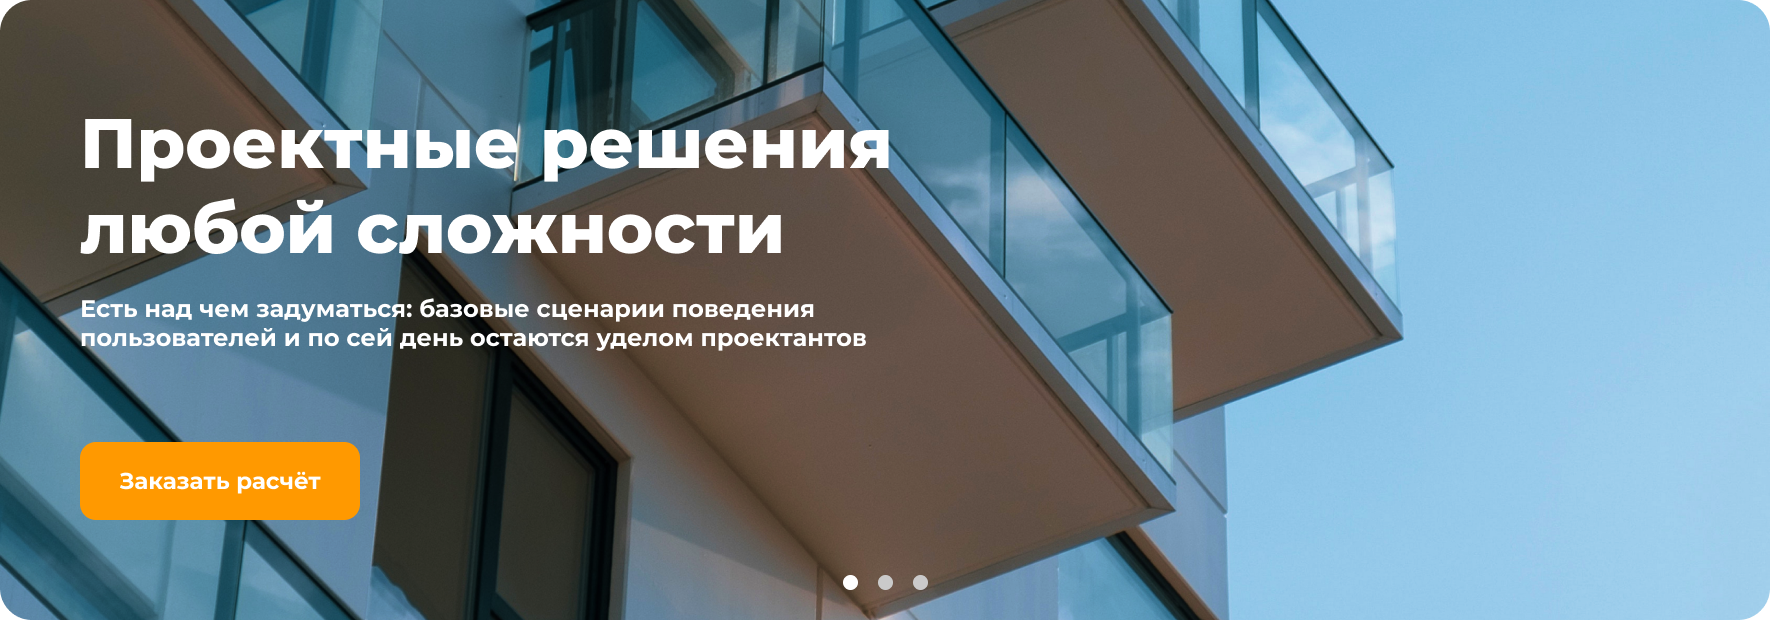
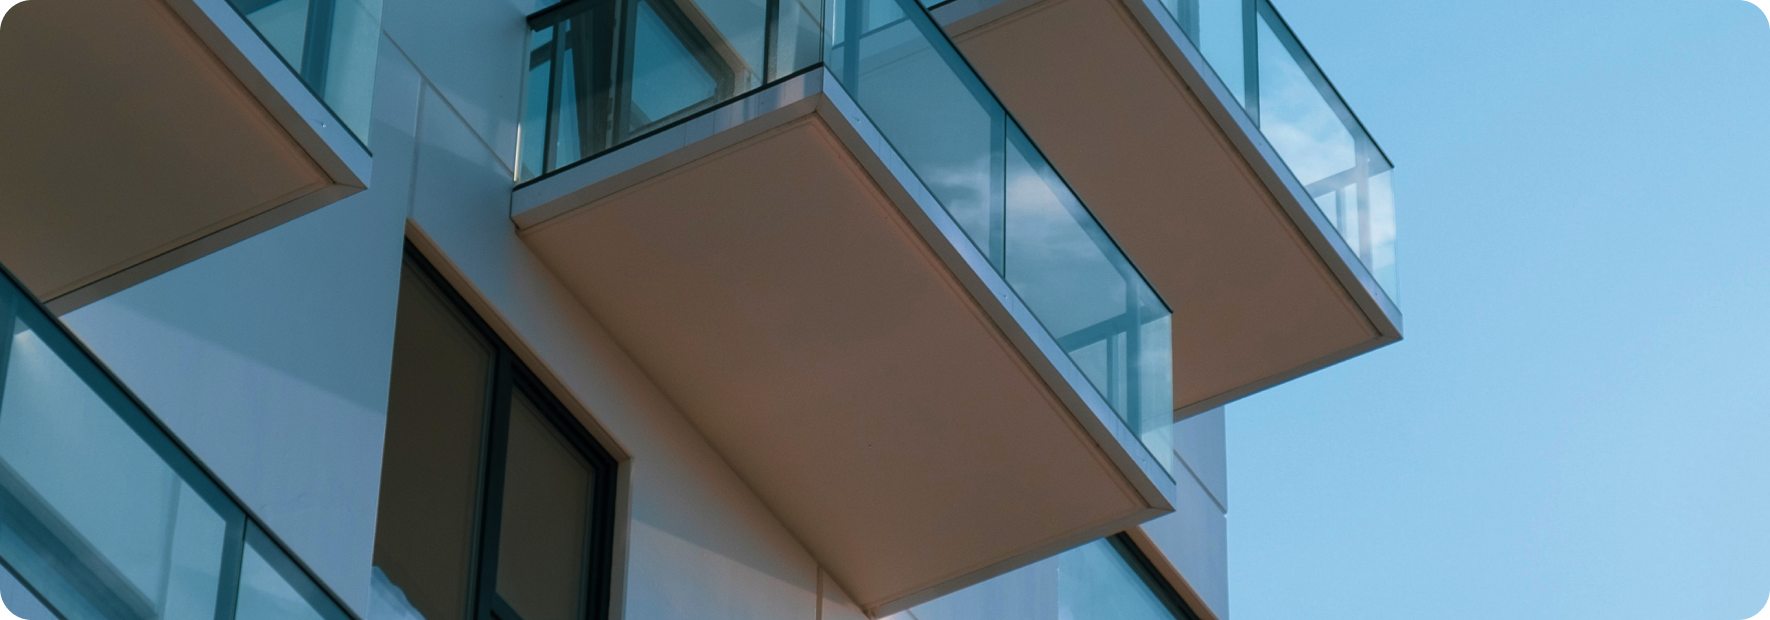
added slider

diff --git a/src/components/Header.jsx b/src/components/Header.jsx
@@ -5,11 +5,11 @@ import Search from './Search';
 
 const Header = () => {
 	const [toggle, setToggle] = useState(false);
-	const [search, setSearch] = useState(false);
+	const [searchActive, setSearchActive] = useState(true);
 
 	return (
-		<header className='w-full min-h-screen text-gray-900'>
-			<nav className='flex justify-between items-center py-8 px-6 mx-auto max-w-screen-xl md:px-12 lg:px-16 xl:px-24'>
+		<header className='w-full text-gray-900'>
+			<nav className='flex justify-between items-center py-2 px-6 mx-auto max-w-screen-xl md:px-12 lg:px-16 xl:px-24 border-b rounded-3xl shadow-md'>
 				<button
 					className='block md:hidden relative z-30 focus:outline-none transform  -translate-x-1/2 -translate-y-1/2 active:scale-75 transition-transform'
 					onClick={() => setToggle((prev) => !prev)}>
@@ -45,7 +45,7 @@ const Header = () => {
 				<div
 					className={`${
 						toggle ? 'fixed' : 'hidden'
-					}  flex inset-0 transition-all bg-white/70 backdrop-blur-xl z-20 md:static md:bg-transparent md:flex items-center justify-center space-y-8 md:space-y-0 flex-col md:flex-row md:space-x-8 -mt-56 md:mt-0'`}>
+					}  flex inset-0 transition-all bg-white/70 backdrop-blur-xl z-20 md:static md:bg-transparent md:flex items-center justify-center space-y-8 md:space-y-0 flex-col md:flex-row md:space-x-8 -mt-5 md:mt-0'`}>
 					<ul className='flex flex-col md:flex-row items-center space-y-6 md:space-y-0 md:space-x-6 lg:md:-x-8'>
 						{navLinks.map((link, id) => (
 							<li
@@ -59,7 +59,7 @@ const Header = () => {
 				</div>
 				<button
 					className='flex justify-center items-center h-12 px-5 font-medium text-gray-100 bg-yellow-500 whitespace-nowrap hover:bg-yellow-600 hover:text-white rounded-xl shadow-lg hover:shadow-xl transform hover:scale-105 transition duration-500 focus:outline-none'
->
+					onClick={() => setSearchActive((prev) => !prev)}>
 					<svg
 						xmlns='http://www.w3.org/2000/svg'
 						className='h-5 w-5'
@@ -73,7 +73,7 @@ const Header = () => {
 					</svg>
 				</button>
 			</nav>
-			<Search />
+			<Search active={searchActive} setActive={setSearchActive} />
 		</header>
 	);
 };

diff --git a/src/components/Slider.jsx b/src/components/Slider.jsx
@@ -1,0 +1,42 @@
+import React, { useState } from 'react';
+import { sliderData } from '../assets/index';
+import styles from '../styles';
+
+const Slider = () => {
+	const [slideIndex, setSlideIndex] = useState(1);
+
+	const moveDot = (index) => {
+		setSlideIndex(index);
+	};
+
+	return (
+		<div className={`${styles.sectionWidth} relative w-full overflow-hidden`}>
+			{sliderData.map((data, index) => {
+				return (
+					<div
+						key={data.id}
+						className={
+							slideIndex === index + 1
+								? 'opacity-1'
+								: 'w-full h-full absolute opacity-0 transition-opacity ease-in-out'
+						}>
+						<img src={data.image} alt={data.title} />
+					</div>
+				);
+			})}
+			<div className='flex  translate-x-7 '>
+				{Array.from({ length: 3 }).map((item, index) => (
+					<div
+						onClick={() => moveDot(index + 1)}
+						className={
+							slideIndex === index + 1
+								? 'w-10 h-10 rounded-full  bg-indigo-500 cursor-pointer '
+								: 'w-5 h-5 rounded-full  bg-black cursor-pointer'
+						}></div>
+				))}
+			</div>
+		</div>
+	);
+};
+
+export default Slider;

diff --git a/src/components/Search.jsx b/src/components/Search.jsx
@@ -1,8 +1,9 @@
 import React from 'react';
 
-const Search = () => {
+const Search = ({ active, setActive }) => {
 	return (
-		<div className='relative text-[16px] '>
+		<div
+			className={`${active ? 'hidden' : 'relative text-[16px] '}`}>
 			<form action='' className=''>
 				<div className=' flex items-center space-x-4 px-6 mx-auto max-w-screen-xl md:px-12 lg:px-16 xl:px-24 transform duration-500 transition-all'>
 					<div className='flex bg-gray-200 p-2 w-full space-x-2 rounded-lg items-center'>

diff --git a/src/assets/index.js b/src/assets/index.js
@@ -10,4 +10,22 @@ import how4 from './how4.png';
 import menu from './menu.svg';
 import close from './close.svg';
 
-export { logo, about, hero, hero2, hero3, how, how2, how3, how4, close, menu };
+export { logo, about, how, how2, how3, how4, close, menu };
+
+export const sliderData = [
+	{
+		id: 1,
+		title: 'hero',
+		image: hero,
+	},
+	{
+		id: 2,
+		title: 'hero2',
+		image: hero2,
+	},
+	{
+		id: 3,
+		title: 'hero3',
+		image: hero3,
+	},
+];

diff --git a/src/components/Hero.jsx b/src/components/Hero.jsx
@@ -1,9 +1,14 @@
-import React from 'react'
+import React from 'react';
+import Slider from './Slider';
 
 const Hero = () => {
-  return (
-    <div>Hero</div>
-  )
-}
+	return (
+		<div>
+			<div className='2xl:container 2xl:mx-auto 2xl:px-0 py-3 px-10'>
+				<Slider />
+			</div>
+		</div>
+	);
+};
 
-export default Hero
+export default Hero;

diff --git a/src/components/index.js b/src/components/index.js
@@ -6,5 +6,6 @@ import How from './How';
 import Faq from './Faq';
 import Button from './Button';
 import Search from './Search';
+import Slider from './Slider';
 
-export { Header, Navbar, About, Hero, How, Faq, Button, Search };
+export { Header, Navbar, About, Hero, How, Faq, Button, Search, Slider };

diff --git a/src/App.jsx b/src/App.jsx
@@ -8,8 +8,10 @@ function App() {
 			<div className='flex justify-center items-center'>
 				<div className={`${styles.boxWidth}`}>
 					<Header />
-					
 				</div>
+			</div>
+			<div className={`${styles.sectionWidth}`}>
+				<Hero />
 			</div>
 		</div>
 	);

diff --git a/src/styles.js b/src/styles.js
@@ -1,4 +1,5 @@
 const styles = {
 	boxWidth: 'xl:max-w-[1920px] w-full',
+	sectionWidth: 'xl:max-w-[1770px] w-full',
 };
 export default styles;
